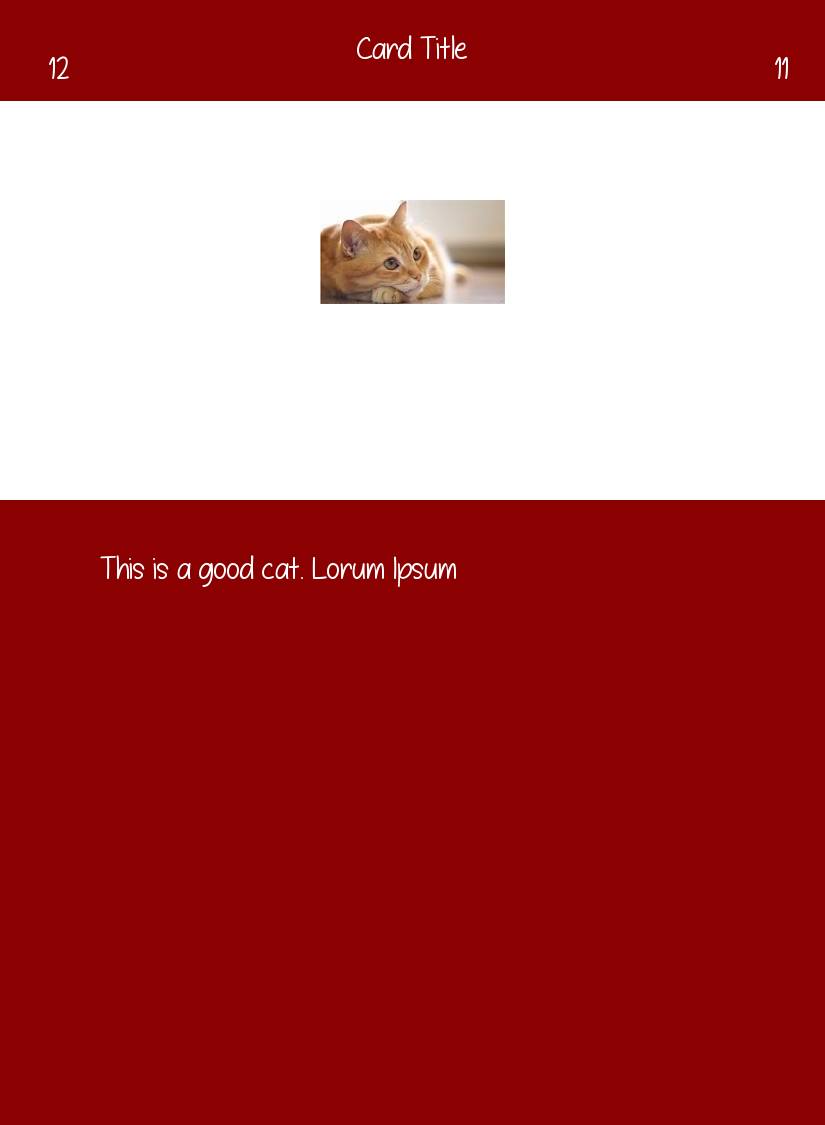
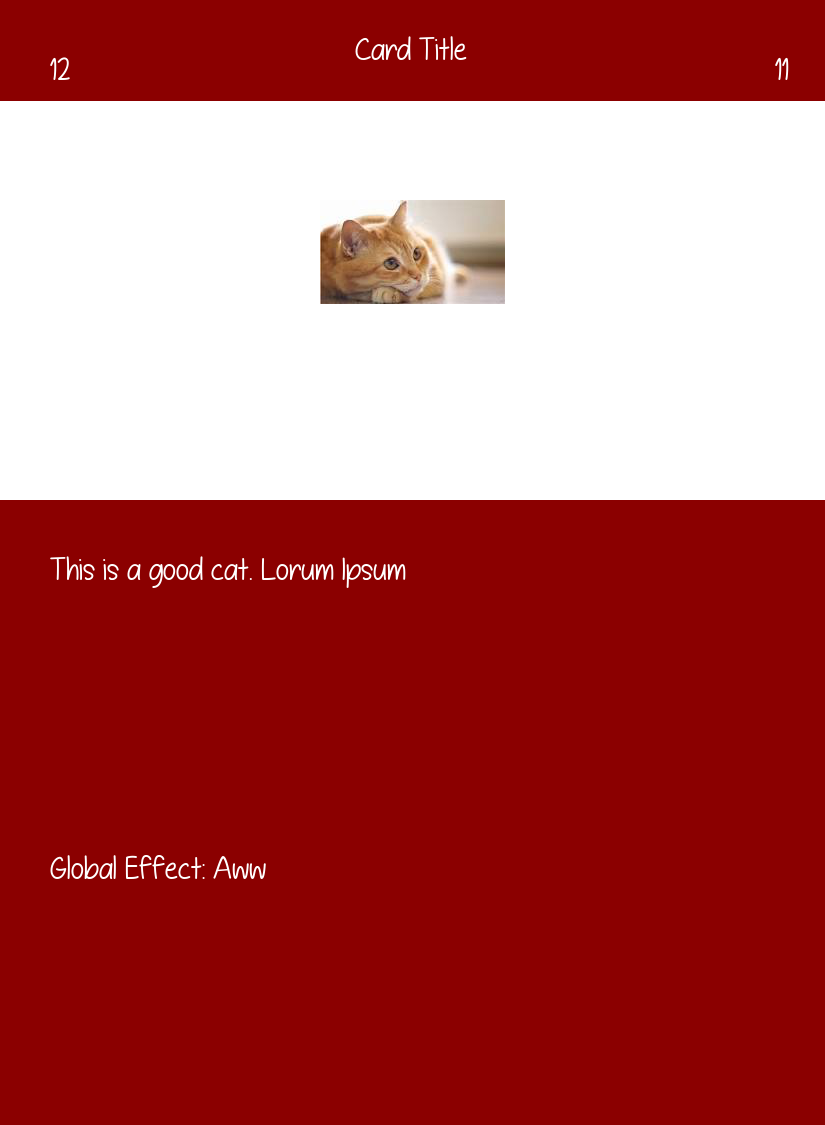
added second description box, seperated fields

diff --git a/main.py b/main.py
@@ -1,40 +1,29 @@
-import sys
+
 from PIL import Image, ImageFont, ImageDraw, ImageEnhance
 
 from physical_sizes import *
+from card_layout import *
 
-if len(sys.argv) <= 1 or sys.argv[1] == "Standard":
-    CARD_HEIGHT = STANDARD[0]
-    CARD_WIDTH = STANDARD[1]
-else:
-    print("Unsupported")
-    quit()
-
-CARD_COLOR = "darkred"
-CARD_HEADER_HEIGHT = 100
-CARD_IMAGE_AREA_HEIGHT = 400
-IMAGE_HEIGHT = CARD_IMAGE_AREA_HEIGHT - 200
-IMAGE_WIDTH = CARD_WIDTH - 200
 CARD_DESCRIPTION = "This is a good cat. Lorum Ipsum"
+CARD_DESCRIPTION_2 = "Global Effect: Aww"
 CARD_VALUE_LEFT = 12
 CARD_VALUE_RIGHT = 11
 TITLE = "Card Title"
-CARD_DESCRIPTION_MARGIN = 50
-CARD_CORNER_VALUE_MARGIN = 50
 
 source_img = Image.new("RGB", (CARD_WIDTH, CARD_HEIGHT), "white")
 draw = ImageDraw.Draw(source_img)
 draw.rectangle(((0, 0), (CARD_WIDTH, CARD_HEADER_HEIGHT )), fill=CARD_COLOR)   # Bacjground Color
-draw.rectangle(((0, CARD_HEADER_HEIGHT + CARD_IMAGE_AREA_HEIGHT), (CARD_WIDTH, CARD_HEIGHT )), fill=CARD_COLOR)   # Bacjground Color
+draw.rectangle(((0, CARD_HEADER_HEIGHT + CARD_IMAGE_AREA_HEIGHT), (CARD_WIDTH, CARD_HEIGHT )), fill=CARD_COLOR)   # Background Color
 
-font = ImageFont.truetype("itisdefinetlypossible.ttf", 32)
+font = ImageFont.truetype(FONT, FONT_SIZE)
 TITLE_LOCATION_X = (CARD_WIDTH / 2) - (font.getsize(TITLE)[0]/2) - 1
-draw.text((TITLE_LOCATION_X, 30), TITLE, font=font)
+draw.text((TITLE_LOCATION_X, TITLE_OFFSET), TITLE, font=font)
 
-draw.text((50, 50), str(CARD_VALUE_LEFT), font=font)
+draw.text((CARD_CORNER_VALUE_MARGIN, CARD_CORNER_VALUE_MARGIN), str(CARD_VALUE_LEFT), font=font)
 draw.text((CARD_WIDTH - CARD_CORNER_VALUE_MARGIN, CARD_CORNER_VALUE_MARGIN), str(CARD_VALUE_RIGHT), font=font)
-draw.text((100, CARD_HEADER_HEIGHT + CARD_IMAGE_AREA_HEIGHT + CARD_DESCRIPTION_MARGIN), CARD_DESCRIPTION, font=font)
+draw.text((CARD_DESCRIPTION_INSERT, CARD_HEADER_HEIGHT + CARD_IMAGE_AREA_HEIGHT + CARD_DESCRIPTION_MARGIN), CARD_DESCRIPTION, font=font)
 
+draw.text((CARD_DESCRIPTION_INSERT, CARD_HEADER_HEIGHT + CARD_IMAGE_AREA_HEIGHT + CARD_DESCRIPTION_MARGIN + CARD_DESCRIPTION_HEIGHT), CARD_DESCRIPTION_2, font=font)
 
 img = Image.open('test2.jpg', 'r')
 img_w, img_h = img.size

diff --git a/card_layout.py b/card_layout.py
@@ -1,0 +1,26 @@
+from physical_sizes import *
+import sys
+
+if len(sys.argv) <= 1 or sys.argv[1] == "Standard":
+    CARD_HEIGHT, CARD_WIDTH=STANDARD
+else:
+    print("Unsupported")
+    quit()
+
+CARD_COLOR = "darkred"
+
+CARD_HEADER_HEIGHT = 100
+CARD_IMAGE_AREA_HEIGHT = 400
+CARD_DESCRIPTION_MARGIN = 50
+CARD_DESCRIPTION_HEIGHT = 300
+CARD_DESCRIPTION_INSERT = 50
+
+IMAGE_HEIGHT = CARD_IMAGE_AREA_HEIGHT - 200
+IMAGE_WIDTH = CARD_WIDTH - 200
+
+CARD_CORNER_VALUE_MARGIN = 50
+
+TITLE_OFFSET = 30
+
+FONT = "itisdefinetlypossible.ttf"
+FONT_SIZE = 32
